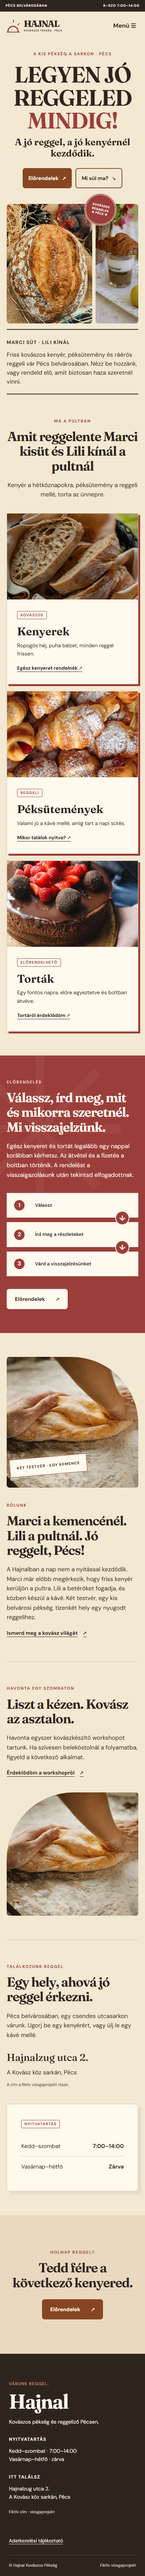
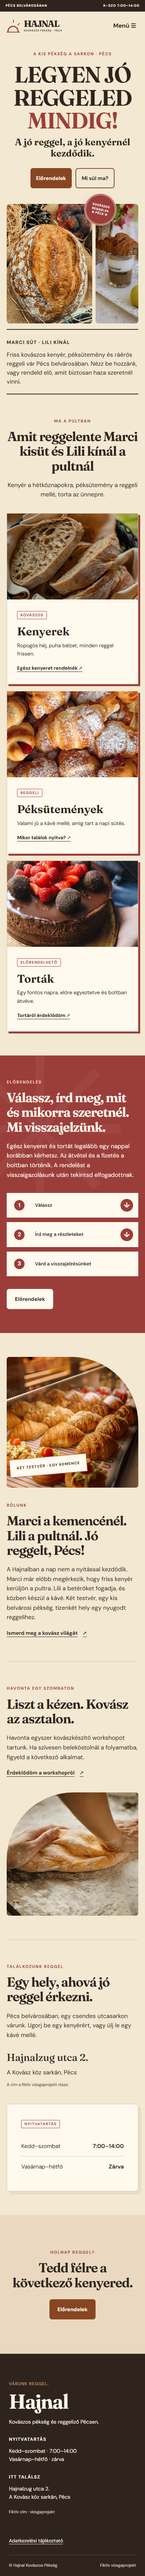
Refine order steps and replace repeated homepage photo

diff --git a/weboldal/hajnal-site/index.html b/weboldal/hajnal-site/index.html
@@ -8,7 +8,7 @@
       <article class="offer-card"><div class="offer-photo"><img src="assets/pastry.webp" alt="Frissen sült péksütemények" loading="lazy"></div><div class="offer-body"><span class="stamp">REGGELI</span><h3>Péksütemények</h3><p>Valami jó a kávé mellé, amíg tart a napi sütés.</p><a href="kapcsolat.html">Mikor találok nyitva? <span aria-hidden="true">↗</span></a></div></article>
       <article class="offer-card"><div class="offer-photo"><img src="assets/cake.webp" alt="Málnás csokoládétorta" loading="lazy"></div><div class="offer-body"><span class="stamp">ELŐRENDELHETŐ</span><h3>Torták</h3><p>Egy fontos napra, előre egyeztetve és boltban átvéve.</p><a href="elorendeles.html">Tortáról érdeklődöm <span aria-hidden="true">↗</span></a></div></article></div></section>
     <section class="section order-section" id="elorendeles"><div class="order-ornament" aria-hidden="true">✳</div><div class="order-copy"><span class="eyebrow">ELŐRENDELÉS</span><h2>Válassz, írd meg, mit és mikorra szeretnél. Mi visszajelzünk.</h2><p>Egész kenyeret és tortát legalább egy nappal korábban kérhetsz. Az átvétel és a fizetés a boltban történik. A rendelést a visszaigazolásunk után tekintsd elfogadottnak.</p><ol class="steps" aria-label="Az előrendelés menete"><li><b>1</b><span>Válassz</span></li><li><b>2</b><span>Írd meg a részleteket</span></li><li><b>3</b><span>Várd a visszajelzésünket</span></li></ol><a class="button button-light" href="elorendeles.html">Előrendelek</a></div></section>
-    <section class="section about-section" id="rolunk"><div class="about-photo"><img src="assets/hands.webp" alt="Lisztes kézzel formált tészta" loading="lazy"><span class="photo-note">KÉT TESTVÉR · EGY KEMENCE</span></div><div class="about-copy"><span class="eyebrow">RÓLUNK</span><h2>Marci a kemencénél. Lili a pultnál. Jó reggelt, Pécs!</h2><p>A Hajnalban a nap nem a nyitással kezdődik. Marci már előbb megérkezik, hogy friss kenyér kerüljön a pultra. Lili a betérőket fogadja, és közben készül a kávé. Két testvér, egy kis belvárosi pékség, tizenkét hely egy nyugodt reggelihez.</p><a class="text-link" href="workshop.html">Ismerd meg a kovász világát <span aria-hidden="true">↗</span></a></div></section>
+    <section class="section about-section" id="rolunk"><div class="about-photo"><img src="assets/bakery-counter.webp" alt="Friss péksütemények a pékség pultjában" loading="lazy"><span class="photo-note">KÉT TESTVÉR · EGY KEMENCE</span></div><div class="about-copy"><span class="eyebrow">RÓLUNK</span><h2>Marci a kemencénél. Lili a pultnál. Jó reggelt, Pécs!</h2><p>A Hajnalban a nap nem a nyitással kezdődik. Marci már előbb megérkezik, hogy friss kenyér kerüljön a pultra. Lili a betérőket fogadja, és közben készül a kávé. Két testvér, egy kis belvárosi pékség, tizenkét hely egy nyugodt reggelihez.</p><a class="text-link" href="workshop.html">Ismerd meg a kovász világát <span aria-hidden="true">↗</span></a></div></section>
     <section class="section workshop-section" id="workshop"><div><span class="eyebrow">HAVONTA EGY SZOMBATON</span><h2>Liszt a kézen. Kovász az asztalon.</h2><p>Havonta egyszer kovászkészítő workshopot tartunk. Ha szívesen belekóstolnál a folyamatba, figyeld a következő alkalmat.</p><a class="text-link" href="kapcsolat.html">Érdeklődöm a workshopról <span aria-hidden="true">↗</span></a></div><div class="workshop-photo"><img src="assets/hands.webp" alt="Tészta készítése lisztes felületen" loading="lazy"></div></section>
     <section class="section visit-section" id="kapcsolat"><div><span class="eyebrow">TALÁLKOZUNK REGGEL</span><h2>Egy hely, ahová jó reggel érkezni.</h2><p>Pécs belvárosában, egy csendes utcasarkon várunk. Ugorj be egy kenyérért, vagy ülj le egy kávé mellé.</p><p class="address">Hajnalzug utca 2.<br><span>A Kovász köz sarkán, Pécs</span></p><small>A cím a fiktív vizsgaprojekt része.</small></div><div class="hours"><span class="stamp">NYITVATARTÁS</span><div><span>Kedd–szombat</span><strong>7:00–14:00</strong></div><div><span>Vasárnap–hétfő</span><strong>Zárva</strong></div></div></section>
     <section class="final-cta"><span class="eyebrow">HOLNAP REGGEL?</span><h2>Tedd félre a következő kenyered.</h2><a class="button" href="elorendeles.html">Előrendelek</a></section></main><footer class="footer"><div class="footer-inner"><div><span class="footer-kicker">Várunk reggel.</span><h2>Hajnal</h2><p>Kovászos pékség és reggeliző Pécsen.</p></div><div><h3>Nyitvatartás</h3><p>Kedd–szombat · 7:00–14:00<br>Vasárnap–hétfő · zárva</p></div><div><h3>Itt találsz</h3><p>Hajnalzug utca 2.<br>A Kovász köz sarkán, Pécs</p><small>Fiktív cím · vizsgaprojekt</small></div></div><div class="footer-legal"><a href="adatkezeles.html">Adatkezelési tájékoztató</a></div><div class="foot-bottom"><span>© Hajnal Kovászos Pékség</span><span>Fiktív vizsgaprojekt</span></div></footer><script src="site.js" defer></script><script src="pages.js" defer></script></body></html>

diff --git a/weboldal/hajnal-site/pages.css b/weboldal/hajnal-site/pages.css
@@ -9,10 +9,10 @@
 .site-final .poster-bottom p{font-size:17px;line-height:1.5}
 .site-final .hero-actions .button-outline{background:transparent;color:var(--ink);border:2px solid var(--crust);min-height:54px;padding:10px 22px}
 .site-final .hero-actions .button-outline:hover{background:var(--crust);color:var(--cream)}
-.site-final .steps{display:flex;align-items:stretch;flex-wrap:nowrap;gap:0;list-style:none;padding:0;margin:36px 0 34px;max-width:900px}
-.site-final .steps li{position:relative;display:flex;align-items:center;gap:12px;flex:1;min-height:75px;padding:14px 30px 14px 18px;background:var(--cream);color:var(--ink);border:2px solid var(--cream);font-size:14px;font-weight:700;line-height:1.25}
-.site-final .steps li+li{margin-left:13px}
-.site-final .steps li:not(:last-child):after{content:'→';position:absolute;z-index:2;right:-22px;top:50%;transform:translateY(-50%);width:34px;height:34px;display:grid;place-items:center;border-radius:50%;background:var(--cherry);color:var(--cream);border:2px solid var(--cream);font-size:19px}
+.site-final .steps{display:grid;grid-template-columns:repeat(3,minmax(0,1fr));gap:14px;list-style:none;padding:0;margin:36px 0 34px;max-width:900px}
+.site-final .steps li{position:relative;display:flex;align-items:center;gap:12px;min-width:0;min-height:75px;padding:14px 54px 14px 18px;background:var(--cream);color:var(--ink);border:2px solid var(--cream);font-size:14px;font-weight:700;line-height:1.25}
+.site-final .steps li:last-child{padding-right:18px}
+.site-final .steps li:not(:last-child):after{content:'→';position:absolute;right:12px;top:50%;transform:translateY(-50%);width:34px;height:34px;display:grid;place-items:center;border-radius:50%;background:var(--cherry);color:var(--cream);font-size:19px}
 .site-final .steps b{display:grid;place-items:center;flex:none;width:34px;height:34px;margin:0;border-radius:50%;background:var(--cherry);color:var(--cream);font-size:15px}
-@media(max-width:900px){.site-final .poster-bottom{grid-template-columns:1fr 2fr}.site-final .steps li{padding:12px 22px 12px 12px;font-size:12px}.site-final .steps b{width:28px;height:28px}}
-@media(max-width:680px){.site-final .poster-bottom{display:block;min-height:0;padding:20px 0}.site-final .poster-bottom p{font-size:16px;margin-top:9px}.site-final .steps{flex-direction:column;gap:12px}.site-final .steps li+li{margin-left:0}.site-final .steps li{min-height:60px;padding:12px 18px;font-size:14px}.site-final .steps li:not(:last-child):after{content:'↓';top:auto;bottom:-22px;right:22px;transform:none}.site-final .hero-actions{justify-content:center;gap:10px}.site-final .hero-actions .button{gap:10px;padding-left:15px;padding-right:15px}}
+@media(max-width:900px){.site-final .poster-bottom{grid-template-columns:1fr 2fr}.site-final .steps li{padding:12px 46px 12px 12px;font-size:12px}.site-final .steps li:not(:last-child):after{right:7px;width:28px;height:28px}.site-final .steps b{width:28px;height:28px}}
+@media(max-width:680px){.site-final .poster-bottom{display:block;min-height:0;padding:20px 0}.site-final .poster-bottom p{font-size:16px;margin-top:9px}.site-final .steps{grid-template-columns:1fr;gap:12px}.site-final .steps li{min-height:60px;padding:12px 54px 12px 18px;font-size:14px}.site-final .steps li:not(:last-child):after{content:'↓';right:12px;width:34px;height:34px}.site-final .hero-actions{justify-content:center;gap:10px}.site-final .hero-actions .button{gap:10px;padding-left:15px;padding-right:15px}}

diff --git a/weboldal/pages.css b/weboldal/pages.css
@@ -9,10 +9,10 @@
 .site-final .poster-bottom p{font-size:17px;line-height:1.5}
 .site-final .hero-actions .button-outline{background:transparent;color:var(--ink);border:2px solid var(--crust);min-height:54px;padding:10px 22px}
 .site-final .hero-actions .button-outline:hover{background:var(--crust);color:var(--cream)}
-.site-final .steps{display:flex;align-items:stretch;flex-wrap:nowrap;gap:0;list-style:none;padding:0;margin:36px 0 34px;max-width:900px}
-.site-final .steps li{position:relative;display:flex;align-items:center;gap:12px;flex:1;min-height:75px;padding:14px 30px 14px 18px;background:var(--cream);color:var(--ink);border:2px solid var(--cream);font-size:14px;font-weight:700;line-height:1.25}
-.site-final .steps li+li{margin-left:13px}
-.site-final .steps li:not(:last-child):after{content:'→';position:absolute;z-index:2;right:-22px;top:50%;transform:translateY(-50%);width:34px;height:34px;display:grid;place-items:center;border-radius:50%;background:var(--cherry);color:var(--cream);border:2px solid var(--cream);font-size:19px}
+.site-final .steps{display:grid;grid-template-columns:repeat(3,minmax(0,1fr));gap:14px;list-style:none;padding:0;margin:36px 0 34px;max-width:900px}
+.site-final .steps li{position:relative;display:flex;align-items:center;gap:12px;min-width:0;min-height:75px;padding:14px 54px 14px 18px;background:var(--cream);color:var(--ink);border:2px solid var(--cream);font-size:14px;font-weight:700;line-height:1.25}
+.site-final .steps li:last-child{padding-right:18px}
+.site-final .steps li:not(:last-child):after{content:'→';position:absolute;right:12px;top:50%;transform:translateY(-50%);width:34px;height:34px;display:grid;place-items:center;border-radius:50%;background:var(--cherry);color:var(--cream);font-size:19px}
 .site-final .steps b{display:grid;place-items:center;flex:none;width:34px;height:34px;margin:0;border-radius:50%;background:var(--cherry);color:var(--cream);font-size:15px}
-@media(max-width:900px){.site-final .poster-bottom{grid-template-columns:1fr 2fr}.site-final .steps li{padding:12px 22px 12px 12px;font-size:12px}.site-final .steps b{width:28px;height:28px}}
-@media(max-width:680px){.site-final .poster-bottom{display:block;min-height:0;padding:20px 0}.site-final .poster-bottom p{font-size:16px;margin-top:9px}.site-final .steps{flex-direction:column;gap:12px}.site-final .steps li+li{margin-left:0}.site-final .steps li{min-height:60px;padding:12px 18px;font-size:14px}.site-final .steps li:not(:last-child):after{content:'↓';top:auto;bottom:-22px;right:22px;transform:none}.site-final .hero-actions{justify-content:center;gap:10px}.site-final .hero-actions .button{gap:10px;padding-left:15px;padding-right:15px}}
+@media(max-width:900px){.site-final .poster-bottom{grid-template-columns:1fr 2fr}.site-final .steps li{padding:12px 46px 12px 12px;font-size:12px}.site-final .steps li:not(:last-child):after{right:7px;width:28px;height:28px}.site-final .steps b{width:28px;height:28px}}
+@media(max-width:680px){.site-final .poster-bottom{display:block;min-height:0;padding:20px 0}.site-final .poster-bottom p{font-size:16px;margin-top:9px}.site-final .steps{grid-template-columns:1fr;gap:12px}.site-final .steps li{min-height:60px;padding:12px 54px 12px 18px;font-size:14px}.site-final .steps li:not(:last-child):after{content:'↓';right:12px;width:34px;height:34px}.site-final .hero-actions{justify-content:center;gap:10px}.site-final .hero-actions .button{gap:10px;padding-left:15px;padding-right:15px}}

diff --git a/weboldal/build_site.py b/weboldal/build_site.py
@@ -48,6 +48,7 @@ home = re.sub(r'(<span class="eyebrow">)0[1-5] / ', r'\1', home)
 home = home.replace('<div class="steps"><span><b>01</b> Válassz</span><span><b>02</b> Írd meg a részleteket</span><span><b>03</b> Várd a visszajelzésünket</span></div>', '<ol class="steps" aria-label="Az előrendelés menete"><li><b>1</b><span>Válassz</span></li><li><b>2</b><span>Írd meg a részleteket</span></li><li><b>3</b><span>Várd a visszajelzésünket</span></li></ol>')
 home = home.replace('>Előrendelést indítok <span', '>Előrendelek <span')
 home = home.replace('<div><span>Kedd–péntek</span><strong>7:00–14:00</strong></div><div><span>Szombat</span><strong>7:00–14:00</strong></div>', '<div><span>Kedd–szombat</span><strong>7:00–14:00</strong></div>')
+home = home.replace('<div class="about-photo"><img src="assets/hands.webp" alt="Lisztes kézzel formált tészta"', '<div class="about-photo"><img src="assets/bakery-counter.webp" alt="Friss péksütemények a pékség pultjában"')
 start, end = chrome(dict(slug="index", title="Kovászos pékség és reggeliző Pécsen", description="Friss kovászos kenyér, péksütemény és reggeli Pécs belvárosában. Egész kenyér és torta előrendelhető."))
 (SITE / "index.html").write_text(start + without_button_arrows(home) + end, encoding="utf-8")
 
